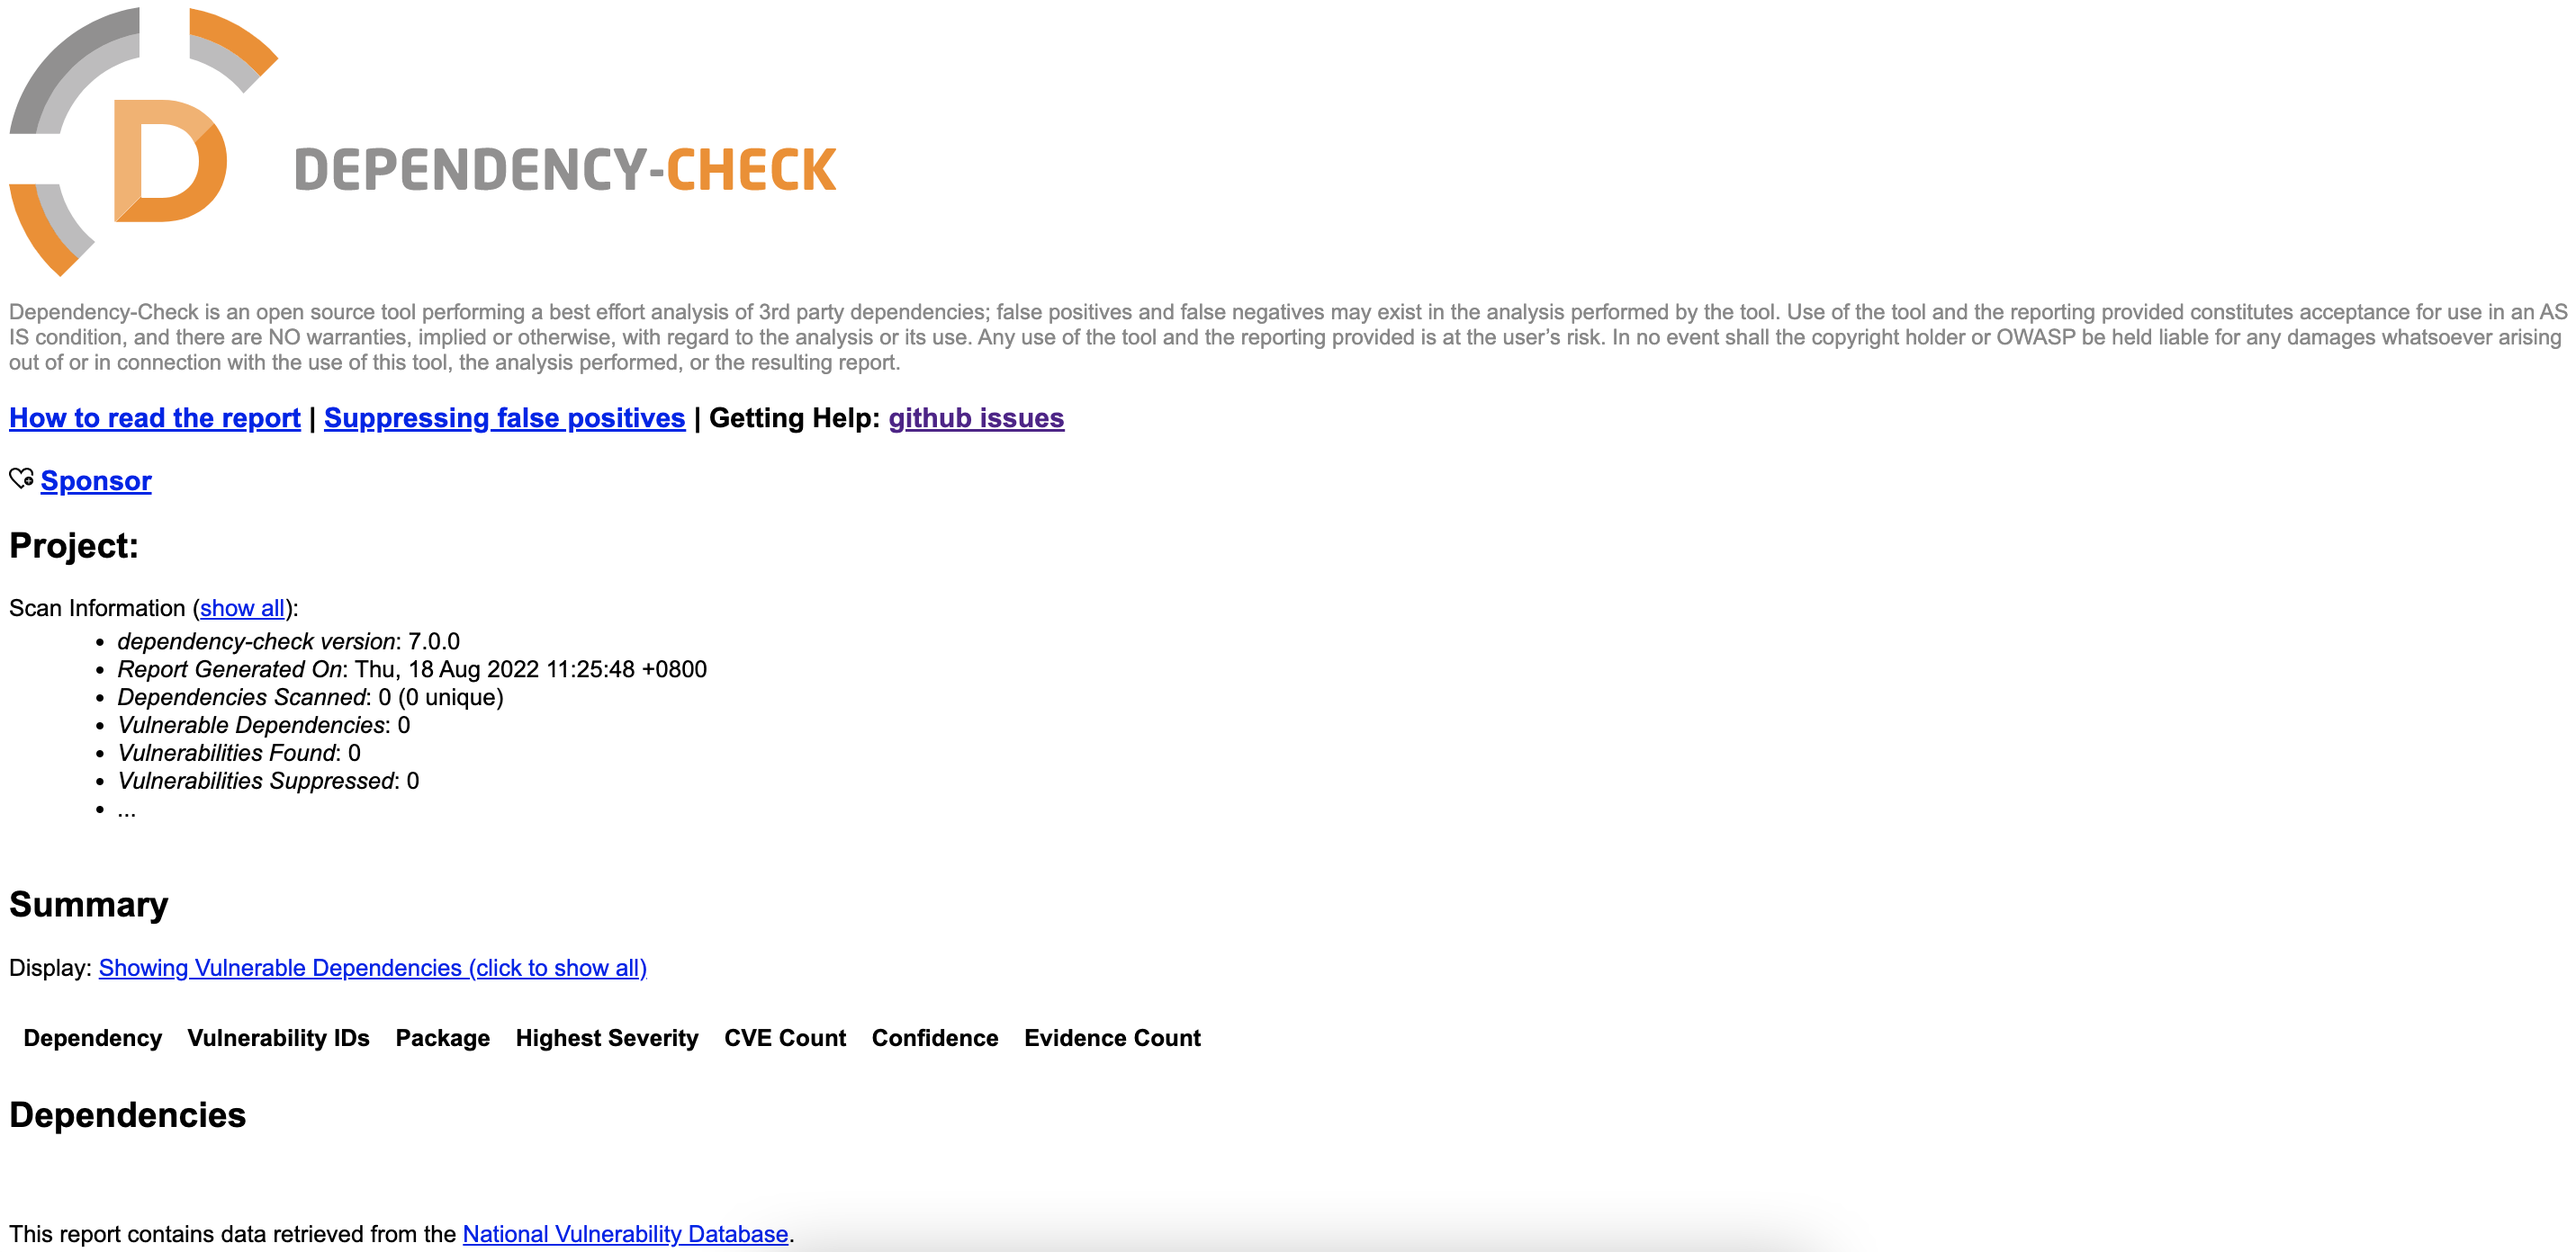
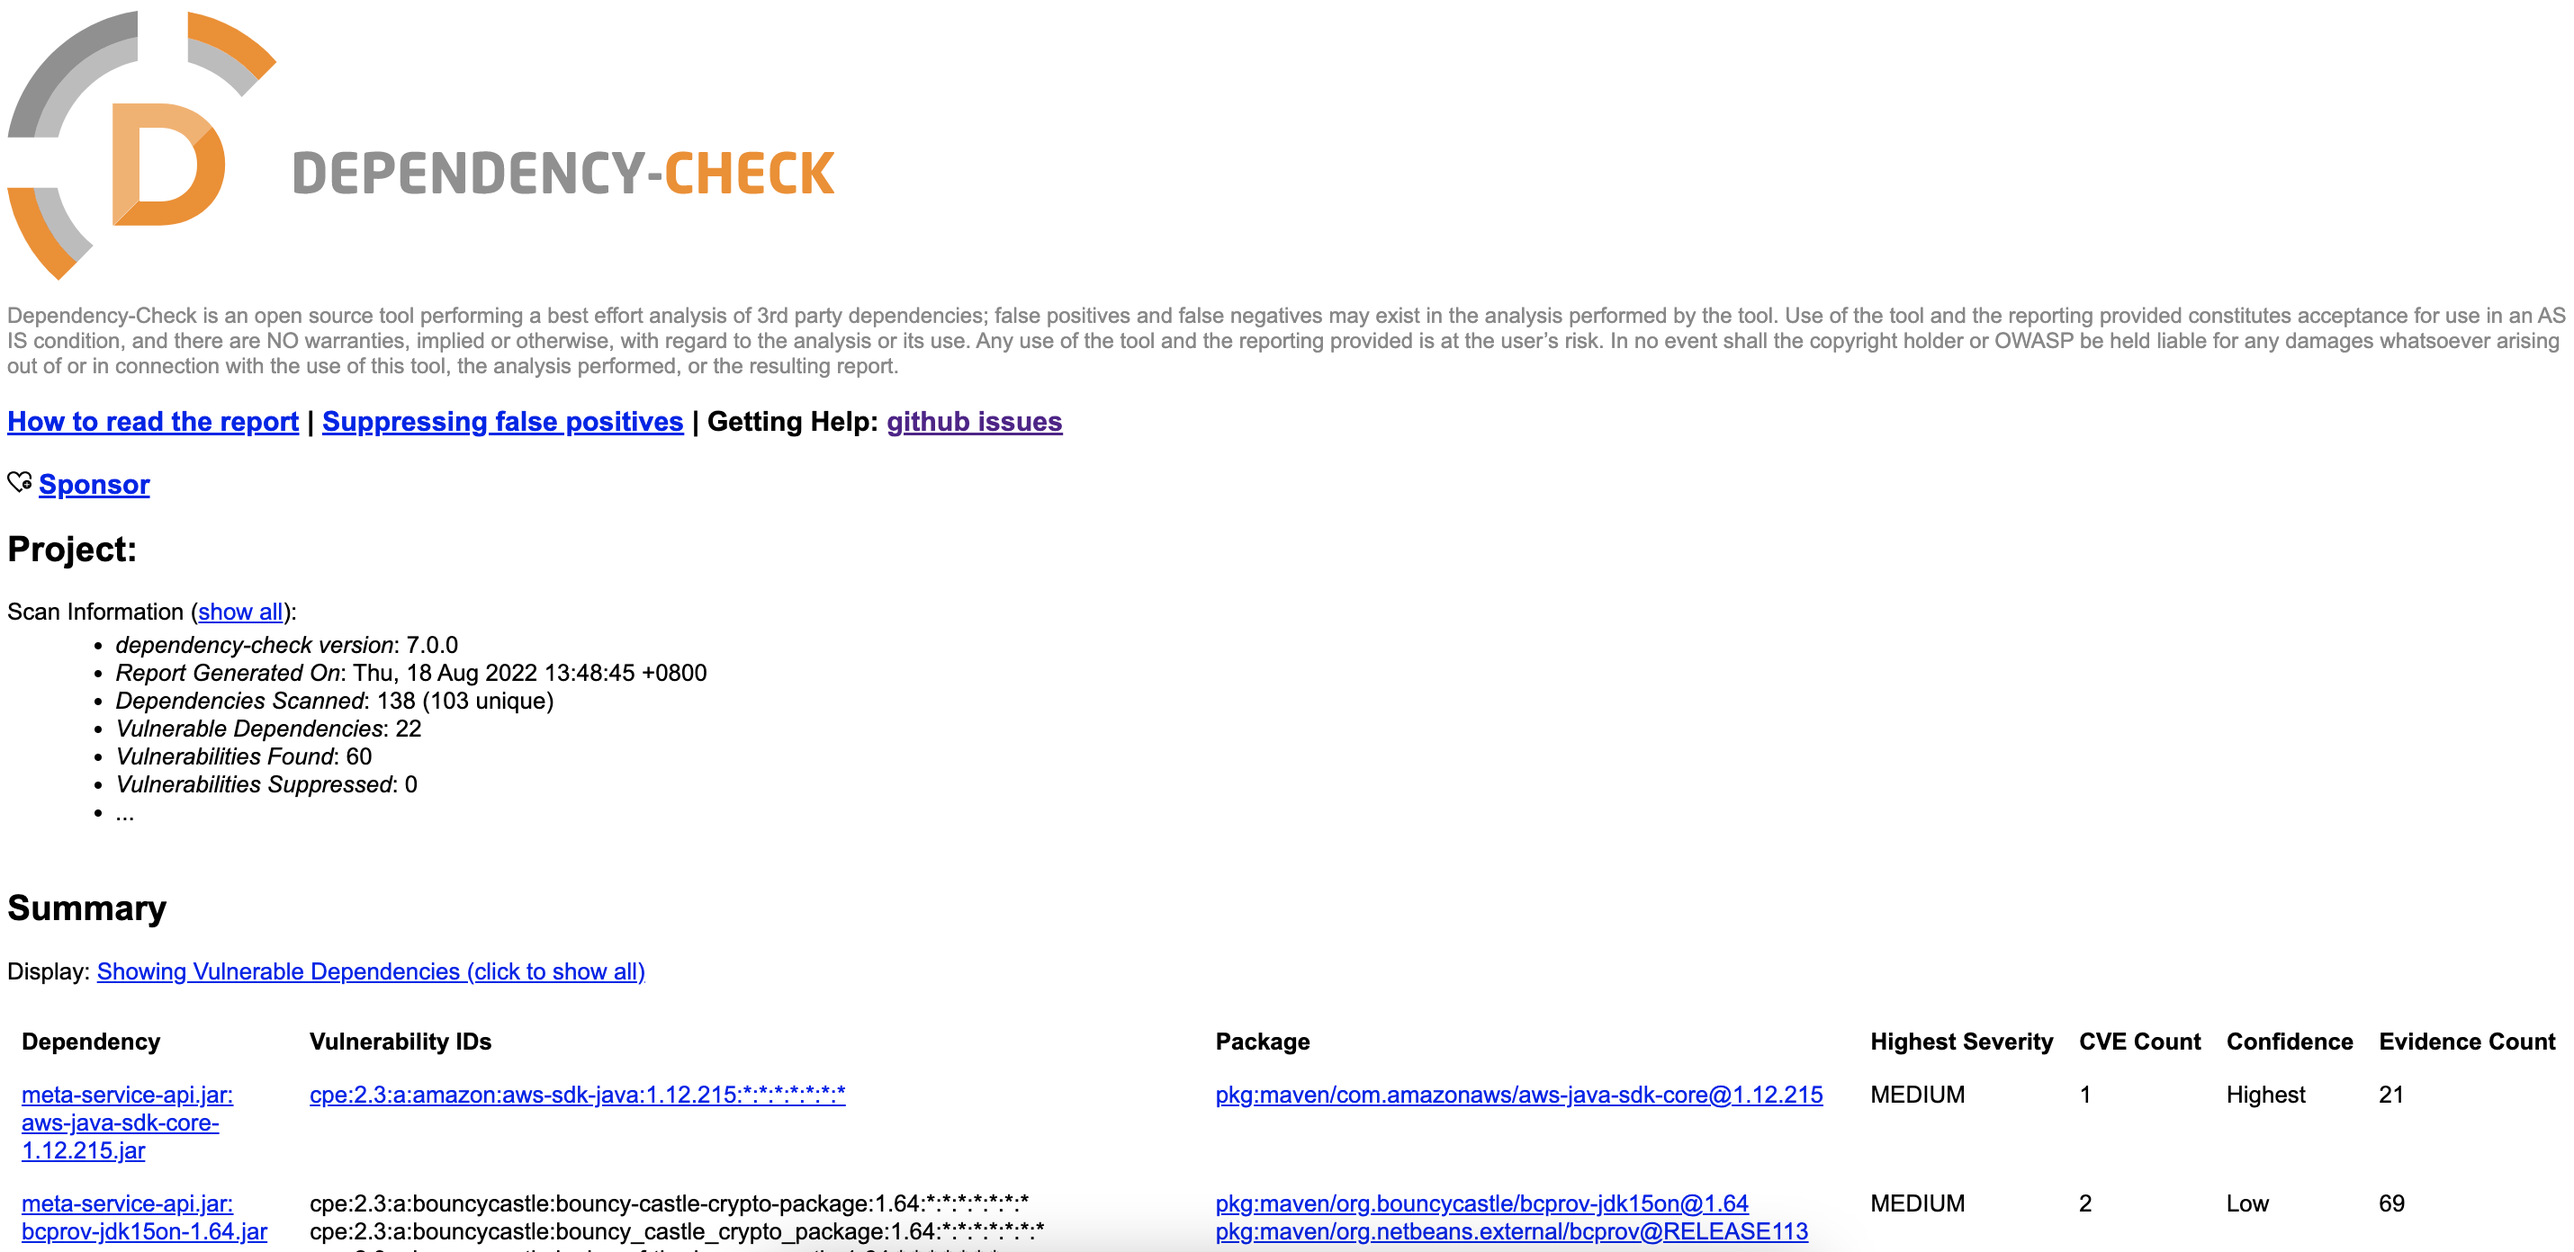
编辑文章

diff --git a/_posts/ArchitecturalExperience/2022-8-18-包管理和安全扫描.md b/_posts/ArchitecturalExperience/2022-8-18-包管理和安全扫描.md
@@ -31,43 +31,46 @@ $ brew update && brew install dependency-check
 $ dependency-check -h
 
 // 获取项目路径
-$ cd meta-service-api
+$ cd meta-service-api/target
 $ pwd
-/Users/huapeiliang/IdeaProjects/meta-service-api
+/Users/huapeiliang/IdeaProjects/meta-service-api/target
 
 // 扫描 meta-service-api 并将报告输出到项目路径下
-$ dependency-check --out . --scan /Users/huapeiliang/IdeaProjects/meta-service-api
+$ dependency-check --out . --scan /Users/huapeiliang/IdeaProjects/meta-service-api/target/meta-service-api.jar
 ```
 
 第一次运行可能需要很长时间，它会从 NIST 托管的国家漏洞数据库 (NVD) 下载和处理数据。执行完成后如下所示：
 
 ```
-[INFO] Analysis Started
-[INFO] Finished File Name Analyzer (0 seconds)
-[INFO] Finished Dependency Merging Analyzer (0 seconds)
-[INFO] Finished Version Filter Analyzer (0 seconds)
-[INFO] Finished Hint Analyzer (0 seconds)
-[INFO] Created CPE Index (2 seconds)
-[INFO] Finished CPE Analyzer (2 seconds)
-[INFO] Finished False Positive Analyzer (0 seconds)
-[INFO] Finished NVD CVE Analyzer (0 seconds)
-[INFO] Finished Sonatype OSS Index Analyzer (0 seconds)
+...
+[INFO] Finished RetireJS Analyzer (1 seconds)
+[INFO] Finished Sonatype OSS Index Analyzer (4 seconds)
 [INFO] Finished Vulnerability Suppression Analyzer (0 seconds)
 [INFO] Finished Dependency Bundling Analyzer (0 seconds)
-[INFO] Analysis Complete (2 seconds)
-[INFO] Writing report to: /Users/huapeiliang/IdeaProjects/meta-service-api/./dependency-check-report.html
+[INFO] Analysis Complete (35 seconds)
+[INFO] Writing report to: /Users/huapeiliang/IdeaProjects/meta-service-api/target/./dependency-check-report.html
 ```
+
+从下面的报告里可以看到，dependency-check 一共扫描了 138 项依赖。其中 22 个依赖易受攻击，60 个依赖发现了漏洞。
 
 ![dependency-check-report.png](https://huapeiliang.github.io/assets/images/posts/dependency-check-report.png)
 
-Lunix 官方示例：
+在 Summary 的总结列表中清晰的展示了：依赖、漏洞的 ID、所属包、最高严重性、CVE 数量、信赖程度、证据数量
+
+以 aws-java-sdk-core-1.12.215.jar 为例，在 Dependencies 里面可以看到详细的说明。从说明中可以看到，这个问题在 1.12.261 版本中得到了解决，所以最好的解决办法就是升级版本。
+
+![dependency-check-report1.png](https://huapeiliang.github.io/assets/images/posts/dependency-check-report1.png)
+
+使用 [Maven 存储库](https://mvnrepository.com/) 搜索 aws-java-sdk-core 最新版本。不搜不知道，一搜吓一跳，短短几个月里，aws-java-sdk-core 包竟然进行了 60+ 次更新。
+
+**Lunix 官方示例：**
 
 ```
 $ ./bin/dependency-check.sh -h
 $ ./bin/dependency-check.sh --out . --scan [path to jar files to be scanned]
 ```
 
-Windows 官方示例：
+**Windows 官方示例：**
 
 ```
 > .\bin\dependency-check.bat -h
